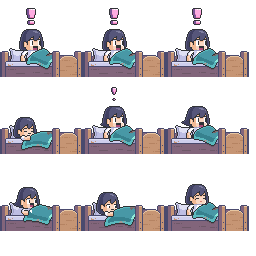
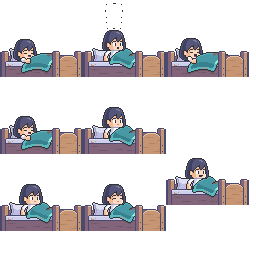
Add files via upload

diff --git a/scripts/c3runtime.js b/scripts/c3runtime.js
@@ -488,6 +488,18 @@ self["C3_Shaders"] = {};
 
 "use strict";{const a=15;let b=-1e3,c=-1e3,d=-1e4;C3.Plugins.Touch.TouchInfo=class extends C3.DefendedBase{constructor(){super(),this._pointerId=0,this._startIndex=0,this._startTime=0,this._time=0,this._lastTime=0,this._startX=0,this._startY=0,this._x=0,this._y=0,this._lastX=0,this._lastY=0,this._width=0,this._height=0,this._pressure=0,this._hasTriggeredHold=!1,this._isTooFarForHold=!1}Release(){}Init(a,b,c,d,e){this._pointerId=d,this._startIndex=e,this._time=a,this._lastTime=a,this._startTime=a,this._startX=b,this._startY=c,this._x=b,this._y=c,this._lastX=b,this._lastY=c}Update(b,c,d,e,f,g){this._lastTime=this._time,this._time=b,this._lastX=this._x,this._lastY=this._y,this._x=c,this._y=d,this._width=e,this._height=f,this._pressure=g,!this._isTooFarForHold&&C3.distanceTo(this._startX,this._startY,this._x,this._y)>=a&&(this._isTooFarForHold=!0)}GetId(){return this._pointerId}GetStartIndex(){return this._startIndex}GetTime(){return this._time}_SetLastTime(a){this._lastTime=a}GetX(){return this._x}GetY(){return this._y}GetSpeed(){const a=C3.distanceTo(this._x,this._y,this._lastX,this._lastY),b=(this._time-this._lastTime)/1e3;return 0<b?a/b:0}GetAngle(){return C3.angleTo(this._lastX,this._lastY,this._x,this._y)}GetWidth(){return this._width}GetHeight(){return this._height}GetPressure(){return this._pressure}ShouldTriggerHold(b){return!this._hasTriggeredHold&&!!(500<=b-this._startTime&&!this._isTooFarForHold&&C3.distanceTo(this._startX,this._startY,this._x,this._y)<a)&&(this._hasTriggeredHold=!0,!0)}ShouldTriggerTap(e){return this._hasTriggeredHold?"":333>=e-this._startTime&&!this._isTooFarForHold&&C3.distanceTo(this._startX,this._startY,this._x,this._y)<a?666>=e-d&&25>C3.distanceTo(b,c,this._x,this._y)?(b=-1e3,c=-1e3,d=-1e4,"double-tap"):(b=this._x,c=this._y,d=e,"single-tap"):""}GetPositionForLayer(a,b,c){if("undefined"==typeof b){const b=a.GetLayerByIndex(0);return b.CanvasCssToLayer_DefaultTransform(this._x,this._y)[c?0:1]}else{const d=a.GetLayer(b);return d?d.CanvasCssToLayer(this._x,this._y)[c?0:1]:0}}}}
 
+"use strict";C3.Plugins.Arr=class extends C3.SDKPluginBase{constructor(a){super(a)}Release(){super.Release()}};
+
+"use strict";C3.Plugins.Arr.Type=class extends C3.SDKTypeBase{constructor(a){super(a)}Release(){super.Release()}OnCreate(){}};
+
+"use strict";{function a(a,b){const c=[];if("function"==typeof b)for(let d=0;d<a;++d)c.push(b());else for(let d=0;d<a;++d)c.push(b);return c}function b(a,b,c){if(b<a.length)C3.truncateArray(a,b);else if(b>a.length)if("function"==typeof c)for(let d=a.length;d<b;++d)a.push(c());else for(let d=a.length;d<b;++d)a.push(c)}C3.Plugins.Arr.Instance=class extends C3.SDKInstanceBase{constructor(b,c){super(b),this._cx=10,this._cy=1,this._cz=1,this._arr=null,this._forX=[],this._forY=[],this._forZ=[],this._forDepth=-1,c&&(this._cx=c[0],this._cy=c[1],this._cz=c[2]),this._arr=a(this._cx,()=>a(this._cy,()=>a(this._cz,0)))}Release(){this._arr=null,super.Release()}At(a,b,c){var d=Math.floor;return a=d(a),b=d(b),c=d(c),0<=a&&a<this._cx&&0<=b&&b<this._cy&&0<=c&&c<this._cz?this._arr[a][b][c]:0}Set(a,b,c,d){var e=Math.floor;a=e(a),b=e(b),c=e(c),0<=a&&a<this._cx&&0<=b&&b<this._cy&&0<=c&&c<this._cz&&(this._arr[a][b][c]=d)}SetSize(c,e,f){var d=Math.floor;if(c=d(c),e=d(e),f=d(f),0>c&&(c=0),0>e&&(e=0),0>f&&(f=0),this._cx!==c||this._cy!==e||this._cz!==f){this._cx=c,this._cy=e,this._cz=f;const d=this._arr;b(d,c,()=>a(e,()=>a(f,0)));for(let g=0;g<c;++g){b(d[g],e,()=>a(f,0));for(let a=0;a<e;++a)b(d[g][a],f,0)}}}GetWidth(){return this._cx}GetHeight(){return this._cy}GetDepth(){return this._cz}GetDebuggerProperties(){const a=[{title:"plugins.arr.debugger.array-properties.title",properties:[{name:"plugins.arr.properties.width.name",value:this._cx,onedit:(a)=>this.SetSize(a,this._cy,this._cz)},{name:"plugins.arr.properties.height.name",value:this._cy,onedit:(a)=>this.SetSize(this._cx,a,this._cz)},{name:"plugins.arr.properties.depth.name",value:this._cz,onedit:(a)=>this.SetSize(this._cx,this._cy,a)},{name:"plugins.arr.properties.elements.name",value:this._cx*this._cy*this._cz}]}],b=[];if(1===this._cy&&1===this._cz)for(let a=0;a<this._cx;++a)b.push({name:"$"+a,value:this._arr[a][0][0],onedit:(b)=>this._arr[a][0][0]=b});else for(let a=0;a<this._cx;++a)b.push({name:"$"+a,value:this._arr[a].toString()});return b.length&&a.push({title:"plugins.arr.debugger.array-data.title",properties:b}),a}GetAsJsonString(){return JSON.stringify({"c2array":!0,"size":[this._cx,this._cy,this._cz],"data":this._arr})}SaveToJson(){return{"size":[this._cx,this._cy,this._cz],"data":this._arr}}LoadFromJson(a){const b=a["size"];this._cx=b[0],this._cy=b[1],this._cz=b[2],this._arr=a["data"]}_GetForX(){return 0<=this._forDepth&&this._forDepth<this._forX.length?this._forX[this._forDepth]:0}_GetForY(){return 0<=this._forDepth&&this._forDepth<this._forY.length?this._forY[this._forDepth]:0}_GetForZ(){return 0<=this._forDepth&&this._forDepth<this._forZ.length?this._forZ[this._forDepth]:0}GetScriptInterfaceClass(){return IArrayInstance}};const c=new WeakMap;self.IArrayInstance=class extends IInstance{constructor(){super(),c.set(this,IInstance._GetInitInst().GetSdkInstance())}get width(){return c.get(this).GetWidth()}get height(){return c.get(this).GetHeight()}get depth(){return c.get(this).GetDepth()}setSize(a,b=1,e=1){c.get(this).SetSize(a,b,e)}getAt(a,b=0,d=0){return c.get(this).At(a,b,d)}setAt(a,b,d=0,e=0){if("number"!=typeof a&&"string"!=typeof a)throw new TypeError("invalid type");c.get(this).Set(b,d,e,a)}}}
+
+"use strict";{function a(a,b,c,d,e){a.PushCopySol(c),b.Retrigger(d,e),a.PopSol(c)}C3.Plugins.Arr.Cnds={CompareX(a,b,c){return C3.compare(this.At(a,0,0),b,c)},CompareXY(a,b,c,d){return C3.compare(this.At(a,b,0),c,d)},CompareXYZ(a,b,c,d,e){return C3.compare(this.At(a,b,c),d,e)},ArrForEach(b){const c=this._runtime,d=c.GetEventSheetManager(),e=c.GetCurrentEvent(),f=e.GetSolModifiers(),g=c.GetEventStack(),h=g.GetCurrentStackFrame(),i=g.Push(e),j=++this._forDepth,k=this._forX,l=this._forY,m=this._forZ,n=this._cx,o=this._cy,p=this._cz;if(j===this._forX.length?(k.push(0),l.push(0),m.push(0)):(k[j]=0,l[j]=0,m[j]=0),c.SetDebuggingEnabled(!1),0===b)for(let b=0;b<n;++b)for(let c=0;c<o;++c)for(let g=0;g<p;++g)k[j]=b,l[j]=c,m[j]=g,a(d,e,f,h,i);else if(1===b)for(let b=0;b<n;++b)for(let c=0;c<o;++c)k[j]=b,l[j]=c,a(d,e,f,h,i);else for(let b=0;b<n;++b)k[j]=b,a(d,e,f,h,i);return c.SetDebuggingEnabled(!0),this._forDepth--,g.Pop(),!1},CompareCurrent(a,b){return C3.compare(this.At(this._GetForX(),this._GetForY(),this._GetForZ()),a,b)},Contains(a){const b=this._cx,c=this._cy,d=this._cz,e=this._arr;for(let f=0;f<b;++f)for(let b=0;b<c;++b)for(let c=0;c<d;++c)if(e[f][b][c]===a)return!0;return!1},IsEmpty(){return 0===this._cx||0===this._cy||0===this._cz},CompareSize(a,b,c){let d=0;return 0===a?d=this._cx:1===a?d=this._cy:2===a?d=this._cz:void 0,C3.compare(d,b,c)}}}
+
+"use strict";{function a(a,b){const c=[];if("function"==typeof b)for(let d=0;d<a;++d)c.push(b());else for(let d=0;d<a;++d)c.push(b);return c}function c(a,b){if("number"==typeof a&&"number"==typeof b)return a-b;else{const c=a.toString(),d=b.toString();return c<d?-1:c>d?1:0}}C3.Plugins.Arr.Acts={Clear(a){const b=this._cx,c=this._cy,d=this._cz,e=this._arr;for(let f=0;f<b;++f)for(let b=0;b<c;++b)for(let c=0;c<d;++c)e[f][b][c]=a},SetSize(a,b,c){this.SetSize(a,b,c)},SetX(a,b){this.Set(a,0,0,b)},SetXY(a,b,c){this.Set(a,b,0,c)},SetXYZ(a,b,c,d){this.Set(a,b,c,d)},Push(b,c,d){const e=this._cx,f=this._cy,g=this._cz,h=this._arr;if(0===d){const d=a(f,()=>a(g,c));0===b?h.push(d):h.unshift(d),this._cx++}else if(1===d){for(let d=0;d<e;++d){const e=a(g,c);0===b?h[d].push(e):h[d].unshift(e)}this._cy++}else{for(let a=0;a<e;++a)for(let d=0;d<f;++d)0===b?h[a][d].push(c):h[a][d].unshift(c);this._cz++}},Pop(a,b){const c=this._cx,d=this._cy,e=this._cz,f=this._arr;if(0===b){if(0===c)return;0===a?f.pop():f.shift(),this._cx--}else if(1===b){if(0===d)return;for(let b=0;b<c;++b)0===a?f[b].pop():f[b].shift();this._cy--}else{if(0===e)return;for(let b=0;b<c;++b)for(let c=0;c<d;++c)0===a?f[b][c].pop():f[b][c].shift();this._cz--}},Reverse(a){const b=this._cx,c=this._cy,d=this._cz,e=this._arr;if(0!==b&&0!==c&&0!==d)if(0===a)e.reverse();else if(1===a)for(let a=0;a<b;++a)e[a].reverse();else for(let a=0;a<b;++a)for(let b=0;b<c;++b)e[a][b].reverse()},Sort(a){const b=this._cx,d=this._cy,e=this._cz,f=this._arr;if(0!==b&&0!==d&&0!==e)if(0===a)f.sort((d,a)=>c(d[0][0],a[0][0]));else if(1===a)for(let a=0;a<b;++a)f[a].sort((d,a)=>c(d[0],a[0]));else for(let a=0;a<b;++a)for(let b=0;b<d;++b)f[a][b].sort(c)},Delete(a,b){if(a=Math.floor(a),!(0>a)){const c=this._cx,d=this._cy,e=this._cz,f=this._arr;if(0===b){if(a>=c)return;f.splice(a,1),this._cx--}else if(1===b){if(a>=d)return;for(let b=0;b<c;++b)f[b].splice(a,1);this._cy--}else{if(a>=e)return;for(let b=0;b<c;++b)for(let c=0;c<d;++c)f[b][c].splice(a,1);this._cz--}}},Insert(b,c,d){if(c=Math.floor(c),0>c)return;const e=this._cx,f=this._cy,g=this._cz,h=this._arr;if(0===d){if(c>e)return;h.splice(c,0,a(f,()=>a(g,b))),this._cx++}else if(1===d){if(c>f)return;for(let d=0;d<e;++d)h[d].splice(c,0,a(g,b));this._cy++}else{if(c>g)return;for(let a=0;a<e;++a)for(let d=0;d<f;++d)h[a][d].splice(c,0,b);this._cz++}},JSONLoad(a){let b=null;try{b=JSON.parse(a)}catch(a){return void console.error("[Construct 3] Failed to parse JSON: ",a)}if(b["c2array"]){const a=b["size"];this._cx=a[0],this._cy=a[1],this._cz=a[2],this._arr=b["data"]}},JSONDownload(a){const b=URL.createObjectURL(new Blob([this.GetAsJsonString()],{type:"application/json"}));this._runtime.InvokeDownload(b,a)}}}
+
+"use strict";C3.Plugins.Arr.Exps={At(a,b,c){return this.At(a,b||0,c||0)},Width(){return this._cx},Height(){return this._cy},Depth(){return this._cz},CurX(){return this._GetForX()},CurY(){return this._GetForY()},CurZ(){return this._GetForZ()},CurValue(){return this.At(this._GetForX(),this._GetForY(),this._GetForZ())},Front(){return this.At(0,0,0)},Back(){return this.At(this._cx-1,0,0)},IndexOf(a){const b=this._arr;for(let c=0,d=this._cx;c<d;++c)if(b[c][0][0]===a)return c;return-1},LastIndexOf(a){const b=this._arr;for(let c=this._cx-1;0<=c;--c)if(b[c][0][0]===a)return c;return-1},AsJSON(){return this.GetAsJsonString()}};
+
 "use strict";C3.Plugins.Spritefont2=class extends C3.SDKPluginBase{constructor(a){super(a)}Release(){super.Release()}};
 
 "use strict";C3.Plugins.Spritefont2.Type=class extends C3.SDKTypeBase{constructor(a){super(a),this._spriteFont=C3.New(SpriteFont)}Release(){super.Release()}OnCreate(){this.GetImageInfo().LoadAsset(this._runtime)}LoadTextures(a){return this.GetImageInfo().LoadStaticTexture(a,{sampling:this._runtime.GetSampling(),isTiled:!0})}ReleaseTextures(){this.GetImageInfo().ReleaseTexture()}GetSpriteFont(){return this._spriteFont}UpdateSettings(a,b,c,d){const e=this.GetImageInfo(),f=this._spriteFont;f.SetWidth(e.GetWidth()),f.SetHeight(e.GetHeight()),f.SetCharacterWidth(a),f.SetCharacterHeight(b),f.SetCharacterSet(c),f.SetSpacingData(d),f.UpdateCharacterMap()}};
@@ -505,6 +517,18 @@ self["C3_Shaders"] = {};
 "use strict";self.SpriteFontCharacter=class{constructor(a,b,c,d){let e=a.GetCharacterWidth(),f=a.GetCharacterHeight();this._spriteFont=a,this._char=b,this._pxRect=new C3.Rect(c,d,c+e,d+f),this._texRect=new C3.Rect,this._displayWidth=-1,this._UpdateTexRect()}Release(){this._spriteFont=null,this._pxRect=null,this._texRect=null}_UpdateTexRect(){let a=this._spriteFont.GetWidth(),b=this._spriteFont.GetHeight();this._texRect.copy(this._pxRect),this._texRect.divide(a,b),this._texRect.lerpInto(this._spriteFont.GetTexRect())}GetSpriteFont(){return this._spriteFont}GetChar(){return this._char}GetTexRect(){return this._texRect}SetDisplayWidth(a){this._displayWidth=a}GetDisplayWidth(){return 0>this._displayWidth?this._spriteFont.GetCharacterWidth():this._displayWidth}};
 
 "use strict";{const a=new C3.Rect,b=new C3.Quad,c=new C3.Color,d=new Set(["left","center","right"]),e=new Set(["top","center","bottom"]),f=new Set(["word","character"]);self.SpriteFontText=class{constructor(a){this._spriteFont=a,this._cssWidth=0,this._cssHeight=0,this._text="",this._isBBcodeEnabled=!1,this._bbString=null,this._wrappedText=C3.New(C3.WordWrap),this._wrapMode="word",this._wrapChanged=!1,this._horizontalAlign="left",this._verticalAlign="top",this._scale=1,this._spacing=0,this._lineHeight=0,this._color=C3.New(C3.Color),this._drawMaxCharCount=-1,this._drawCharCount=0,this._measureTextCallback=(a,b)=>this._MeasureText(a,b),this._spriteFont._AddSpriteFontText(this)}Release(){this._spriteFont._RemoveSpriteFontText(this),this._color=null,this._measureTextCallback=null,this._wrappedText.Clear(),this._wrappedText=null,this._spriteFont=null,this._bbString=null}_MeasureText(a,b){const c=this._GetStyleTag(b,"scale"),d=c?parseFloat(c.param):this._scale,e=this._GetStyleTag(b,"scalex"),f=(e?parseFloat(e.param):1)*d,g=this._GetStyleTag(b,"scaley"),h=(g?parseFloat(g.param):1)*d,i=this._spriteFont.GetCharacterHeight()*h,j=this._lineHeight,k=i+j,l=this.GetSpriteFont(),m=l.GetCharacterWidth()*f,n=this.GetSpacing();if(l.HasAnyCustomWidths()){let b=0,c=0;for(const d of a){let a=m;const e=l.GetCharacter(d);e?a=e.GetDisplayWidth()*f:" "===d&&(a=l.GetSpaceWidth()*f),c+=a,++b}return{width:c+b*n,height:k}}else{const b=[...a].length,c=Math.max(b,0);return{width:m*b+c*n,height:k}}}_SetWrapChanged(){this._wrapChanged=!0,this._wrappedText.Clear()}SetSize(a,b){0>=a||0>=b||this._cssWidth===a&&this._cssHeight===b||(this._cssWidth!==a&&this._SetWrapChanged(),this._cssWidth=a,this._cssHeight=b)}SetDrawMaxCharacterCount(a){this._drawMaxCharCount=Math.floor(a)}GetDrawMaxCharacterCount(){return this._drawMaxCharCount}_GetStyleTag(a,b){for(let c=a.length-1;0<=c;--c){const d=a[c];if(d.tag===b)return d}return null}_HasStyleTag(a,b){return!!this._GetStyleTag(a,b)}_MaybeWrapText(){if(this._wrapChanged){this._isBBcodeEnabled&&(!this._bbString||this._bbString.toString()!==this._text)&&(this._bbString=new C3.BBString(this._text,{noEscape:!0}));const a=-this.GetSpacing();this._wrappedText.WordWrap(this._isBBcodeEnabled?this._bbString.toFragmentList():this._text,this._measureTextCallback,this._cssWidth,this._wrapMode,a),this._wrapChanged=!1}}Draw(a,b,c,d){var e=Math.floor;this._MaybeWrapText(),this._drawCharCount=0;let f=0;const g=this._spriteFont.GetCharacterHeight()*this._scale,h=this._lineHeight,i=g+h,j=C3.cloneArray(this._wrappedText.GetLines()),k=Math.sin(d),l=Math.cos(d);"center"===this._verticalAlign?f=Math.max(e(this._cssHeight/2-j.length*i/2),0):"bottom"===this._verticalAlign&&(f=e(this._cssHeight-j.length*i));for(let e=0,g=j.length;e<g;++e){const d=j[e],g=d.height;if(0<e&&f>this._cssHeight-(g-h))break;0<=f&&this._DrawLine(a,d,b,c,f,k,l),f+=g}}_DrawLine(a,b,c,d,e,f,g){var h=Math.floor,i=Math.max;const j=b.height;let k=0;"center"===this._horizontalAlign?k=i(h((this._cssWidth-b.width)/2),0):"right"===this._horizontalAlign&&(k=i(h(this._cssWidth-b.width),0));for(const h of b.fragments)this._DrawFragment(a,h,c,d,k,e,f,g,j),k+=h.width}_DrawFragment(d,e,f,g,h,i,j,k,l){let m=e.text,n=e.width;const o=e.styles;if(-1!==this._drawMaxCharCount){if(this._drawCharCount>=this._drawMaxCharCount)return;this._drawCharCount+m.length>this._drawMaxCharCount&&(m=m.substr(0,this._drawMaxCharCount-this._drawCharCount),n=this._MeasureText(m,o).width),this._drawCharCount+=m.length}const p=this._GetStyleTag(o,"background");if(!(C3.IsStringAllWhitespace(m)&&!p||this._HasStyleTag(o,"hide"))){const e=this._GetStyleTag(o,"scale"),q=e?parseFloat(e.param):this._scale,r=this._GetStyleTag(o,"scalex"),s=(r?parseFloat(r.param):1)*q,t=this._GetStyleTag(o,"scaley"),u=(t?parseFloat(t.param):1)*q,v=this._spriteFont.GetCharacterHeight()*u,w=this._lineHeight;i+=l-w-v;const x=this._GetStyleTag(o,"offsetx");h+=x?parseFloat(x.param):0;const y=this._GetStyleTag(o,"offsety");i+=y?parseFloat(y.param):0,p&&(d.SetColorFillMode(),c.parseString(p.param),c.setA(1),d.SetColor(c),a.set(h,i,h+n,i+v),a.getRight()>this._cssWidth&&a.setRight(this._cssWidth),b.setFromRotatedRectPrecalc(a,j,k),b.offset(f,g),d.Quad(b),d.SetTextureFillMode());const z=this._GetStyleTag(o,"color");z?(c.parseString(z.param),c.setA(this._color.getA())):c.copy(this._color);const A=this._GetStyleTag(o,"opacity");A&&c.setA(c.getA()*parseFloat(A.param)/100),c.premultiply(),d.SetColor(c);const B=this._spriteFont.GetCharacterWidth()*s,C=Math.abs(this.GetSpacing());for(const c of m){const e=this._spriteFont.GetCharacter(c);if(e){const c=e.GetDisplayWidth()*s;if(h+c>this._cssWidth+C+1e-5)return;a.set(h,i,h+B,i+v),b.setFromRotatedRectPrecalc(a,j,k),b.offset(f,g),d.Quad3(b,e.GetTexRect()),h+=c+this._spacing}else h+=this._spriteFont.GetSpaceWidth()*s+this._spacing}}}GetSpriteFont(){return this._spriteFont}SetBBCodeEnabled(a){a=!!a;this._isBBcodeEnabled===a||(this._isBBcodeEnabled=a,this._SetWrapChanged())}IsBBCodeEnabled(){return this._isBBcodeEnabled}SetText(a){this._text===a||(this._text=a,this._SetWrapChanged())}SetWordWrapMode(a){if(!f.has(a))throw new Error("invalid word wrap mode");this._wrapMode===a||(this._wrapMode=a,this._SetWrapChanged())}SetHorizontalAlign(b){if(!d.has(b))throw new Error("invalid alignment");this._horizontalAlign=b}SetVerticalAlign(b){if(!e.has(b))throw new Error("invalid alignment");this._verticalAlign=b}SetScale(a){this._scale===a||(this._scale=a,this._SetWrapChanged())}GetScale(){return this._scale}SetSpacing(a){this._spacing===a||(this._spacing=a,this._SetWrapChanged())}GetSpacing(){return this._spacing}SetLineHeight(a){this._lineHeight=a,this._SetWrapChanged()}GetLineHeight(){return this._lineHeight}SetColor(a){this._color.equals(a)||this._color.copy(a)}GetColor(){return this._color}GetTextWidth(){return this._MaybeWrapText(),this._wrappedText.GetMaxLineWidth()}GetTextHeight(){this._MaybeWrapText();const a=this._spriteFont.GetCharacterHeight()*this._scale,b=this._lineHeight;return this._wrappedText.GetLineCount()*(a+b)-b}}}
+
+"use strict";C3.Plugins.Text=class extends C3.SDKPluginBase{constructor(a){super(a)}Release(){super.Release()}};
+
+"use strict";C3.Plugins.Text.Type=class extends C3.SDKTypeBase{constructor(a){super(a)}Release(){super.Release()}OnCreate(){}LoadTextures(){}ReleaseTextures(){}};
+
+"use strict";{const a=[0,0,0],b=["left","center","right"],c=["top","center","bottom"],d=new C3.Rect,e=new C3.Quad;C3.Plugins.Text.Instance=class extends C3.SDKWorldInstanceBase{constructor(a,b){if(super(a),this._text="",this._enableBBcode=!0,this._faceName="Arial",this._ptSize=12,this._lineHeightOffset=0,this._isBold=!1,this._isItalic=!1,this._color=C3.New(C3.Color),this._horizontalAlign=0,this._verticalAlign=0,this._wrapByWord=!0,this._typewriterStartTime=-1,this._typewriterEndTime=-1,this._typewriterLength=0,this._webglText=C3.New(C3.Gfx.WebGLText,this._runtime.GetWebGLRenderer(),{timeout:5}),this._webglText.ontextureupdate=()=>this._runtime.UpdateRender(),this._webglText.SetIsAsync(!1),b){this._text=b[0],this._enableBBcode=!!b[1],this._faceName=b[2],this._ptSize=b[3],this._lineHeightOffset=b[4],this._isBold=!!b[5],this._isItalic=!!b[6],this._horizontalAlign=b[8],this._verticalAlign=b[9],this._wrapByWord=0===b[10];const a=b[7];this._color.setRgb(a[0],a[1],a[2]),this.GetWorldInfo().SetVisible(b[11])}this._UpdateTextSettings()}Release(){this._CancelTypewriter(),this._webglText.Release(),this._webglText=null,super.Release()}_UpdateTextSettings(){const a=this._webglText;a.SetText(this._text),a.SetBBCodeEnabled(this._enableBBcode),a.SetFontName(this._faceName),a.SetFontSize(this._ptSize),a.SetLineHeight(this._lineHeightOffset),a.SetBold(this._isBold),a.SetItalic(this._isItalic),a.SetColor(this._color),a.SetHorizontalAlignment(b[this._horizontalAlign]),a.SetVerticalAlignment(c[this._verticalAlign]),a.SetWordWrapMode(this._wrapByWord?"word":"character")}_UpdateTextSize(){const a=this.GetWorldInfo(),b=a.GetLayer(),c=b.GetRenderScale()*b.Get2DScaleFactorToZ(a.GetTotalZElevation());this._webglText.SetSize(a.GetWidth(),a.GetHeight(),c)}Draw(a){var b=Math.round;const c=this.GetWorldInfo();this._UpdateTextSize();const f=this._webglText.GetTexture();if(!f)return;const g=c.GetLayer();let h=c.GetBoundingQuad();if(0===c.GetAngle()&&0===c.GetLayer().GetAngle()&&0===c.GetTotalZElevation()){const[c,i]=g.LayerToDrawSurface(h.getTlx(),h.getTly()),[j,k]=g.LayerToDrawSurface(h.getBrx(),h.getBry()),l=c-b(c),m=i-b(i);d.set(c,i,j,k),d.offset(-l,-m),e.setFromRect(d);const[n,o]=a.GetRenderTargetSize(a.GetRenderTarget());this._runtime.GetCanvasManager().SetDeviceTransform(a,n,o),a.SetTexture(f),a.Quad3(e,this._webglText.GetTexRect()),g._SetTransform(a)}else{let c=0,d=0;this._runtime.IsPixelRoundingEnabled()&&(c=h.getTlx()-b(h.getTlx()),d=h.getTly()-b(h.getTly())),(0!=c||0!=d)&&(e.copy(h),e.offset(-c,-d),h=e),a.SetTexture(f),a.Quad3(h,this._webglText.GetTexRect())}}SaveToJson(){const a={"t":this._text,"c":this._color.toJSON(),"fn":this._faceName,"ps":this._ptSize};return this._enableBBcode&&(a["bbc"]=this._enableBBcode),0!==this._horizontalAlign&&(a["ha"]=this._horizontalAlign),0!==this._verticalAlign&&(a["va"]=this._verticalAlign),this._wrapByWord||(a["wr"]=this._wrapByWord),0!==this._lineHeightOffset&&(a["lho"]=this._lineHeightOffset),this._isBold&&(a["b"]=this._isBold),this._isItalic&&(a["i"]=this._isItalic),-1!==this._typewriterEndTime&&(a["tw"]={"st":this._typewriterStartTime,"en":this._typewriterEndTime,"l":this._typewriterLength}),a}LoadFromJson(a){if(this._CancelTypewriter(),this._text=a["t"],this._color.setFromJSON(a["c"]),this._faceName=a["fn"],this._ptSize=a["ps"],this._enableBBcode=!!a.hasOwnProperty("bbc")&&a["bbc"],this._horizontalAlign=a.hasOwnProperty("ha")?a["ha"]:0,this._verticalAlign=a.hasOwnProperty("va")?a["va"]:0,this._wrapByWord=!a.hasOwnProperty("wr")||a["wr"],this._lineHeightOffset=a.hasOwnProperty("lho")?a["lho"]:0,this._isBold=!!a.hasOwnProperty("b")&&a["b"],this._isItalic=!!a.hasOwnProperty("i")&&a["i"],a.hasOwnProperty("tw")){const b=a["tw"];this._typewriterStartTime=b["st"],this._typewriterEndTime=b["en"],this._typewriterLength=b["l"]}this._UpdateTextSettings(),-1!==this._typewriterEndTime&&this._StartTicking()}GetPropertyValueByIndex(b){return 0===b?this._text:1===b?this._enableBBcode:2===b?this._faceName:3===b?this._ptSize:4===b?this._lineHeightOffset:5===b?this._isBold:6===b?this._isItalic:7===b?(a[0]=this._color.getR(),a[1]=this._color.getG(),a[2]=this._color.getB(),a):8===b?this._horizontalAlign:9===b?this._verticalAlign:10===b?this._wrapByWord?1:0:void 0}SetPropertyValueByIndex(a,b){switch(a){case 0:if(this._text===b)return;this._text=b,this._UpdateTextSettings();break;case 1:if(this._enableBBcode===!!b)return;this._enableBBcode=!!b,this._UpdateTextSettings();break;case 2:if(this._faceName===b)return;this._faceName=b,this._UpdateTextSettings();break;case 3:if(this._ptSize===b)return;this._ptSize=b,this._UpdateTextSettings();break;case 4:if(this._lineHeightOffset===b)return;this._lineHeightOffset=b,this._UpdateTextSettings();break;case 5:if(this._isBold===!!b)return;this._isBold=!!b,this._UpdateTextSettings();break;case 6:if(this._isItalic===!!b)return;this._isItalic=!!b,this._UpdateTextSettings();break;case 7:const d=this._color,c=b;if(d.getR()===c[0]&&d.getG()===c[1]&&d.getB()===c[2])return;this._color.setRgb(c[0],c[1],c[2]),this._UpdateTextSettings();break;case 8:if(this._horizontalAlign===b)return;this._horizontalAlign=b,this._UpdateTextSettings();break;case 9:if(this._verticalAlign===b)return;this._verticalAlign=b,this._UpdateTextSettings();break;case 10:if(this._wrapByWord===(b===0))return;this._wrapByWord=b===0,this._UpdateTextSettings();}}SetPropertyColorOffsetValueByIndex(a,c,d,e){(0!==c||0!==d||0!==e)&&(7===a?(this._color.addRgb(c,d,e),this._UpdateTextSettings()):void 0)}_SetText(a){this._text===a||(this._text=a,this._webglText.SetText(a),this._runtime.UpdateRender())}GetText(){return this._text}_StartTypewriter(a,b){this._SetText(a),this._typewriterStartTime=this._runtime.GetGameTime(),this._typewriterEndTime=this._typewriterStartTime+b,this._typewriterLength=C3.BBString.StripAnyTags(a).length,this._webglText.SetDrawMaxCharacterCount(0),this._StartTicking()}_CancelTypewriter(){this._typewriterStartTime=-1,this._typewriterEndTime=-1,this._typewriterLength=0,this._webglText.SetDrawMaxCharacterCount(-1),this._StopTicking()}_FinishTypewriter(){-1===this._typewriterEndTime||(this._CancelTypewriter(),this.Trigger(C3.Plugins.Text.Cnds.OnTypewriterTextFinished),this._runtime.UpdateRender())}_SetFontFace(a){this._faceName===a||(this._faceName=a,this._webglText.SetFontName(a),this._runtime.UpdateRender())}_GetFontFace(){return this._faceName}_SetBold(a){a=!!a;this._isBold===a||(this._isBold=a,this._webglText.SetBold(a),this._runtime.UpdateRender())}_IsBold(){return this._isBold}_SetItalic(a){a=!!a;this._isItalic===a||(this._isItalic=a,this._webglText.SetItalic(a),this._runtime.UpdateRender())}_IsItalic(){return this._isItalic}_SetFontSize(a){this._ptSize===a||(this._ptSize=a,this._webglText.SetFontSize(this._ptSize),this._runtime.UpdateRender())}_GetFontSize(){return this._ptSize}_SetLineHeight(a){this._lineHeightOffset===a||(this._lineHeightOffset=a,this._UpdateTextSettings(),this._runtime.UpdateRender())}_GetLineHeight(){return this._lineHeightOffset}_SetHAlign(a){this._horizontalAlign===a||(this._horizontalAlign=a,this._UpdateTextSettings(),this._runtime.UpdateRender())}_GetHAlign(){return this._horizontalAlign}_SetVAlign(a){this._verticalAlign===a||(this._verticalAlign=a,this._UpdateTextSettings(),this._runtime.UpdateRender())}_GetVAlign(){return this._verticalAlign}_SetWrapByWord(a){a=!!a;this._wrapByWord===a||(this._wrapByWord=a,this._UpdateTextSettings(),this._runtime.UpdateRender())}_IsWrapByWord(){return this._wrapByWord}Tick(){const a=this._runtime.GetGameTime();if(a>=this._typewriterEndTime)this._CancelTypewriter(),this.Trigger(C3.Plugins.Text.Cnds.OnTypewriterTextFinished),this._runtime.UpdateRender();else{let b=C3.relerp(this._typewriterStartTime,this._typewriterEndTime,a,0,this._typewriterLength);b=Math.floor(b),b!==this._webglText.GetDrawMaxCharacterCount()&&(this._webglText.SetDrawMaxCharacterCount(b),this._runtime.UpdateRender())}}GetDebuggerProperties(){return[{title:"plugins.text.name",properties:[{name:"plugins.text.properties.text.name",value:this._text,onedit:(a)=>this._SetText(a)}]}]}GetScriptInterfaceClass(){return ITextInstance}};const f=new WeakMap,g=new Map([["left",0],["center",1],["right",2]]),h=new Map([["top",0],["center",1],["bottom",2]]),i=new Map([["word",!0],["character",!1]]);self.ITextInstance=class extends IWorldInstance{constructor(){super(),f.set(this,IInstance._GetInitInst().GetSdkInstance())}get text(){return f.get(this).GetText()}set text(a){const b=f.get(this);b._CancelTypewriter(),b._SetText(a)}typewriterText(a,b){const c=f.get(this);c._CancelTypewriter(),c._StartTypewriter(a,b)}typewriterFinish(){f.get(this)._FinishTypewriter()}set fontFace(a){f.get(this)._SetFontFace(a)}get fontFace(){return f.get(this)._GetFontFace()}set isBold(a){f.get(this)._SetBold(a)}get isBold(){return f.get(this)._IsBold()}set isItalic(a){f.get(this)._SetItalic(a)}get isItalic(){return f.get(this)._IsItalic()}set sizePt(a){f.get(this)._SetFontSize(a)}get sizePt(){return f.get(this)._GetFontSize()}set lineHeight(a){f.get(this)._SetLineHeight(a)}get lineHeight(){return f.get(this)._GetLineHeight()}set horizontalAlign(a){const b=g.get(a);if("undefined"==typeof b)throw new Error("invalid mode");f.get(this)._SetHAlign(b)}get horizontalAlign(){return b[f.get(this)._GetHAlign()]}set verticalAlign(a){const b=h.get(a);if("undefined"==typeof b)throw new Error("invalid mode");f.get(this)._SetVAlign(b)}get verticalAlign(){return c[f.get(this)._GetVAlign()]}set wordWrapMode(a){const b=i.get(a);if("undefined"==typeof b)throw new Error("invalid mode");f.get(this)._SetWrapByWord(b)}get wordWrapMode(){return f.get(this)._IsWrapByWord()?"word":"character"}}}
+
+"use strict";C3.Plugins.Text.Cnds={CompareText(a,b){return b?this._text===a:C3.equalsNoCase(this._text,a)},IsRunningTypewriterText(){return-1!==this._typewriterEndTime},OnTypewriterTextFinished(){return!0}};
+
+"use strict";{const a=C3.New(C3.Color);C3.Plugins.Text.Acts={SetText(a){this._CancelTypewriter(),"number"==typeof a&&1e9>a&&(a=Math.round(1e10*a)/1e10),this._SetText(a.toString())},AppendText(a){this._CancelTypewriter(),"number"==typeof a&&1e9>a&&(a=Math.round(1e10*a)/1e10),a=a.toString();a&&this._SetText(this._text+a)},TypewriterText(a,b){this._CancelTypewriter(),"number"==typeof a&&1e9>a&&(a=Math.round(1e10*a)/1e10),this._StartTypewriter(a.toString(),b)},SetFontFace(a,b){let c=!1,d=!1;1===b?c=!0:2===b?d=!0:3===b?(c=!0,d=!0):void 0;a===this._faceName&&c===this._isBold&&d===this._isItalic||(this._SetFontFace(a),this._SetBold(c),this._SetItalic(d))},SetFontSize(a){this._SetFontSize(a)},SetFontColor(b){a.setFromRgbValue(b),a.clamp();this._color.equalsIgnoringAlpha(a)||(this._color.copyRgb(a),this._webglText.SetColor(this._color),this._runtime.UpdateRender())},SetWebFont(){console.warn("[Text] 'Set web font' action is deprecated and no longer has any effect")},SetEffect(a){this.GetWorldInfo().SetBlendMode(a),this._runtime.UpdateRender()},TypewriterFinish(){this._FinishTypewriter()},SetLineHeight(a){this._SetLineHeight(a)},SetHAlign(a){this._SetHAlign(a)},SetVAlign(a){this._SetVAlign(a)},SetWrapping(a){this._SetWrapByWord(0===a)}}}
+
+"use strict";C3.Plugins.Text.Exps={Text(){return this._text},PlainText(){return this._enableBBcode?C3.BBString.StripAnyTags(this._text):this._text},FaceName(){return this._faceName},FaceSize(){return this._ptSize},TextWidth(){return this._UpdateTextSize(),this._webglText.GetTextWidth()},TextHeight(){return this._UpdateTextSize(),this._webglText.GetTextHeight()},LineHeight(){return this._lineHeightOffset}};
 
 "use strict";C3.Behaviors.Fade=class extends C3.SDKBehaviorBase{constructor(a){super(a)}Release(){super.Release()}};
 
@@ -589,7 +613,9 @@ self.C3_GetObjectRefTable = function () {
 		C3.Behaviors.solid,
 		C3.Behaviors.bound,
 		C3.Behaviors.Platform,
+		C3.Plugins.Arr,
 		C3.Plugins.Spritefont2,
+		C3.Plugins.Text,
 		C3.Plugins.Touch.Cnds.IsTouchingObject,
 		C3.Behaviors.Fade.Acts.StartFade,
 		C3.Behaviors.Bullet.Acts.SetAngleOfMotion,
@@ -610,7 +636,14 @@ self.C3_GetObjectRefTable = function () {
 		C3.Plugins.System.Acts.Wait,
 		C3.Plugins.System.Acts.Scroll,
 		C3.Plugins.Sprite.Exps.X,
-		C3.Plugins.Sprite.Acts.SetVisible
+		C3.Plugins.Sprite.Acts.SetVisible,
+		C3.Plugins.Sprite.Acts.SetInstanceVar,
+		C3.Plugins.Spritefont2.Acts.TypewriterText,
+		C3.Plugins.Spritefont2.Cnds.IsRunningTypewriterText,
+		C3.Plugins.Spritefont2.Cnds.OnTypewriterTextFinished,
+		C3.Plugins.Sprite.Cnds.IsAnimPlaying,
+		C3.Plugins.Sprite.Cnds.IsVisible,
+		C3.Plugins.Sprite.Cnds.CompareInstanceVar
 	];
 };
 self.C3_JsPropNameTable = [
@@ -660,9 +693,16 @@ self.C3_JsPropNameTable = [
 	{Sprite: 0},
 	{drob: 0},
 	{drobblob: 0},
-	{SpriteFont: 0},
+	{vari: 0},
 	{sleep: 0},
-	{bird: 0}
+	{bird: 0},
+	{Array: 0},
+	{textbox: 0},
+	{SpriteFont: 0},
+	{Text: 0},
+	{aus: 0},
+	{button2: 0},
+	{Sprite2: 0}
 ];
 
 "use strict";
@@ -781,11 +821,18 @@ self.C3_JsPropNameTable = [
 		() => "sleep",
 		() => 1,
 		() => "fly",
+		() => 0.5,
 		() => "sing",
 		() => "snatch",
 		() => "feather",
 		() => "spooked",
-		() => "blink"
+		() => "blink",
+		() => "Es war also kein Traum!\nWie bin ich hier gelandet?",
+		() => 2,
+		() => "talk",
+		() => "standup",
+		() => "",
+		() => "yawn"
 	];
 }
 

diff --git a/index.html b/index.html
@@ -22,7 +22,7 @@
 		<div id="notSupportedWrap">
 			<h2 id="notSupportedTitle">This content requires JavaScript</h2>
 			<p class="notSupportedMessage">JavaScript appears to be disabled. Please enable it to view this content.</p>
-			<p class="notSupportedMessage">This content was created using Construct, a <a href="https://www.construct.net/en">free game maker</a>.</p>
+			<p class="notSupportedMessage">This game was designed with Construct. <a href="https://www.construct.net/en">Make your own game</a></p>
 		</div>
 	</noscript>
 	<script src="scripts/supportcheck.js"></script>
